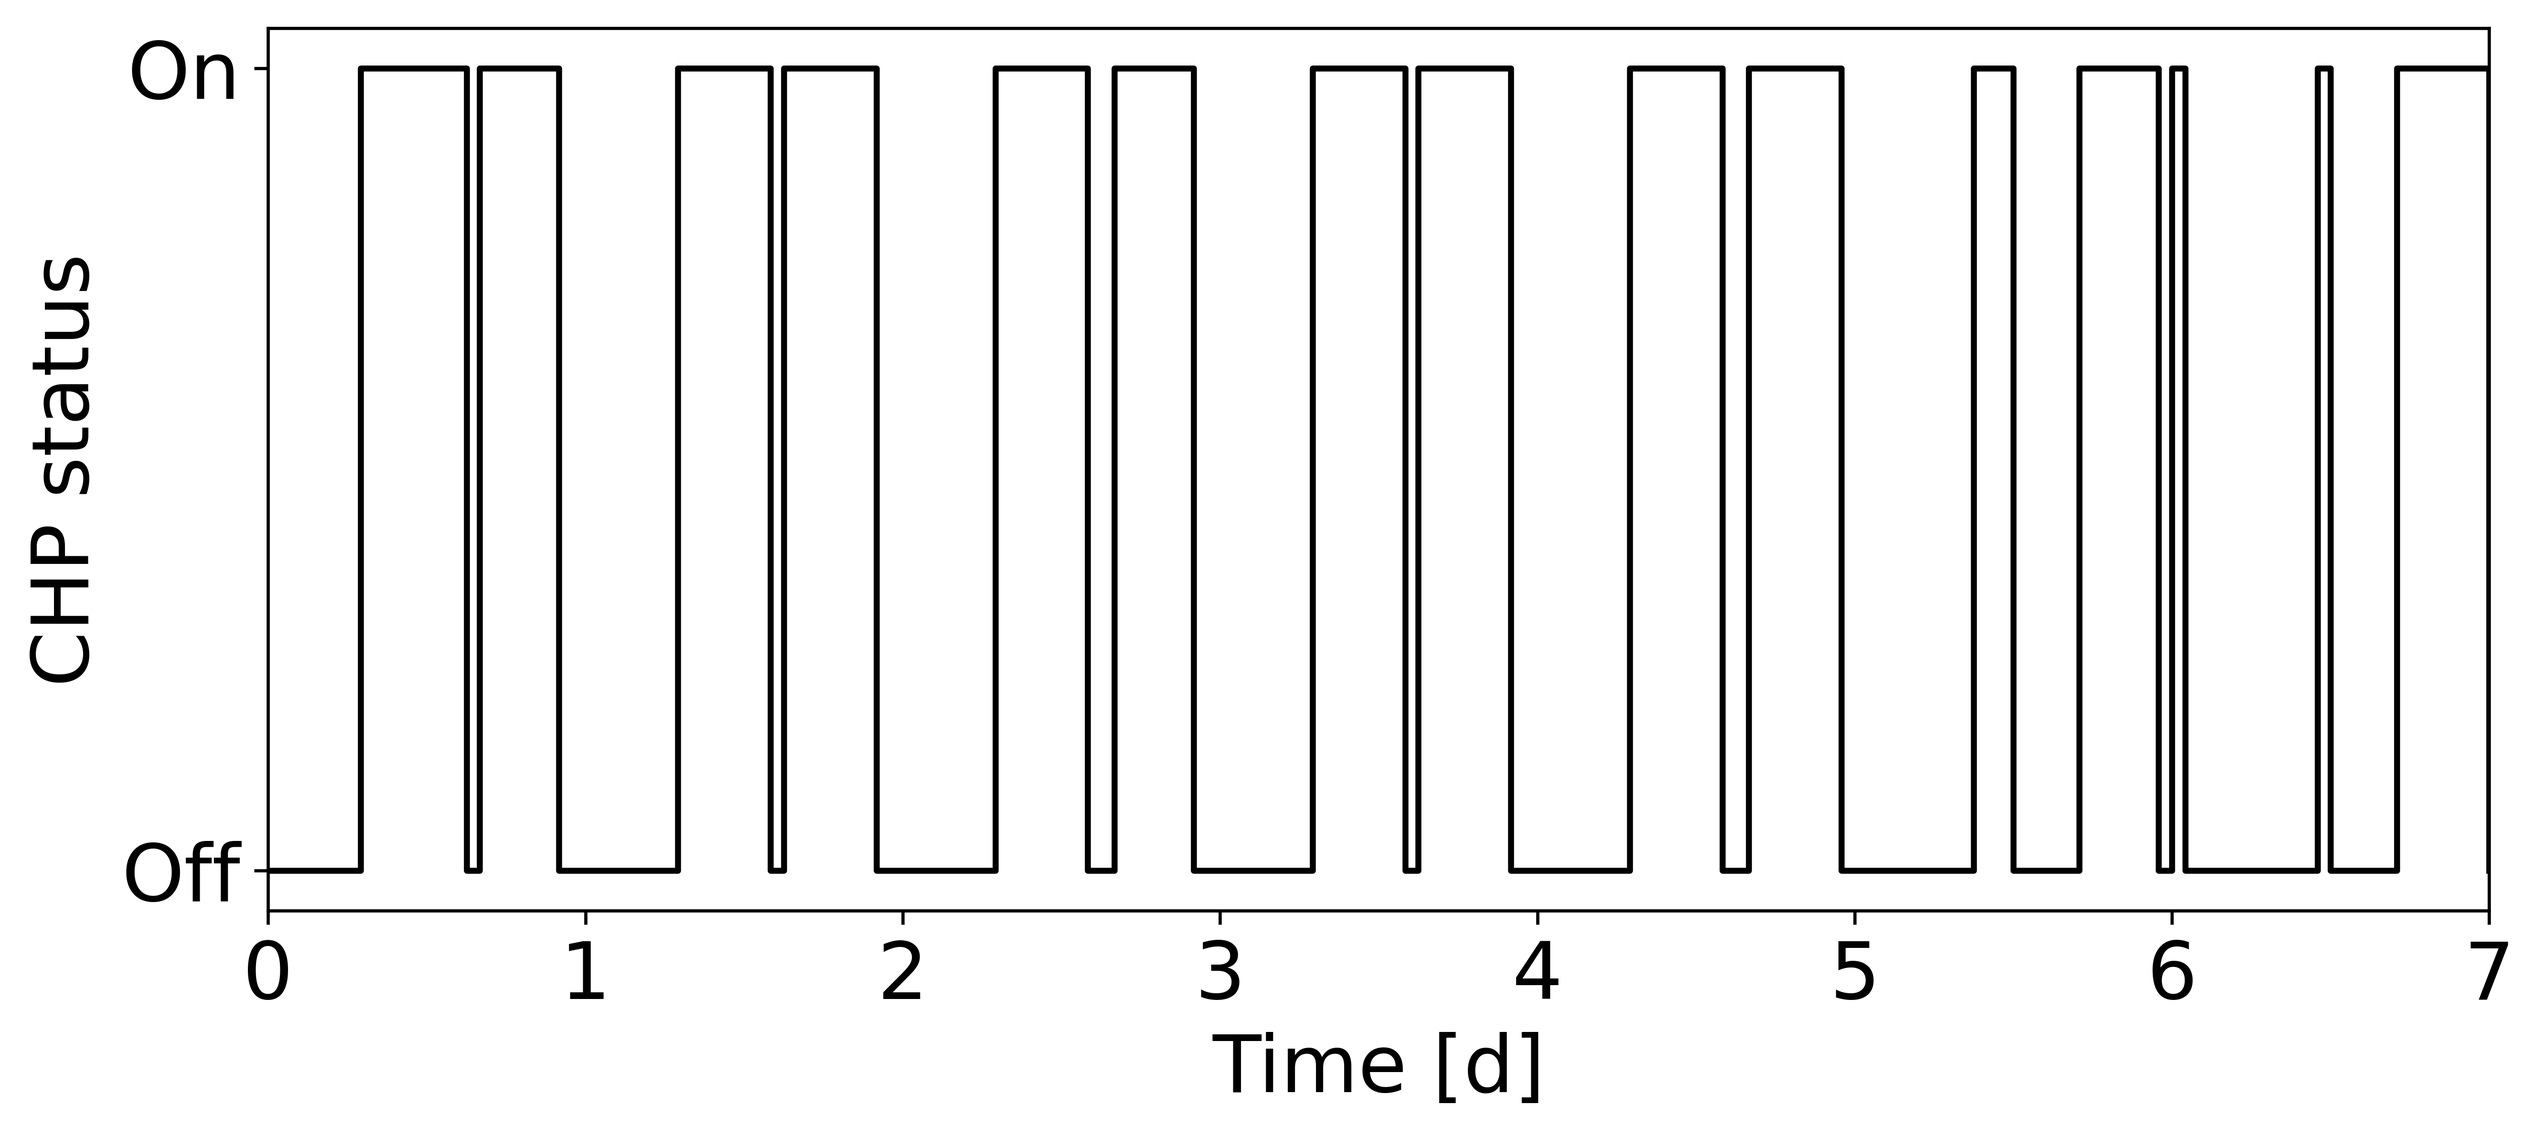
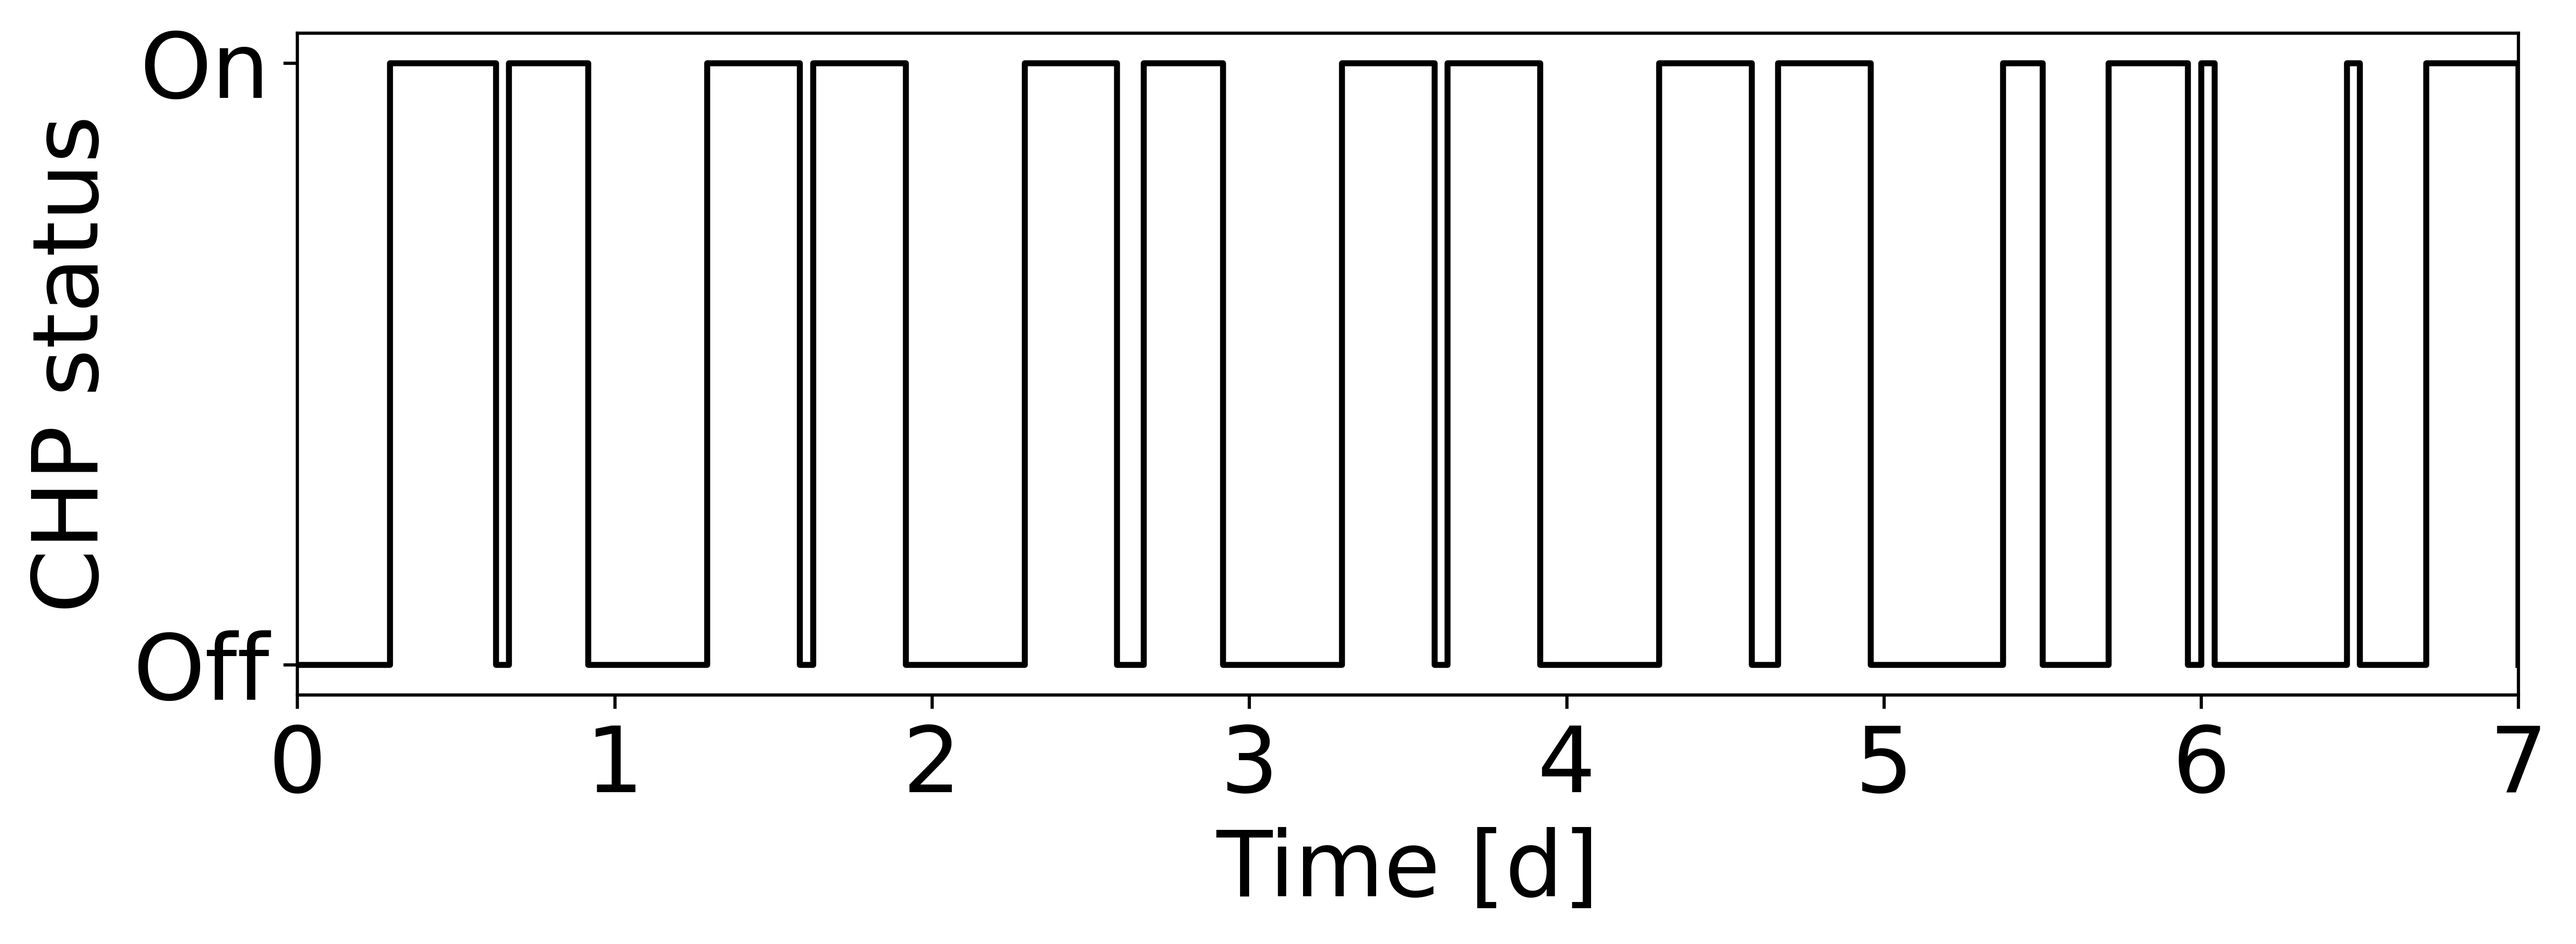
update chp schedule plot

diff --git a/ad_meal_prep_control/plot_generation/plot_chp_schedule.py b/ad_meal_prep_control/plot_generation/plot_chp_schedule.py
@@ -10,7 +10,7 @@ import numpy as np
 from dataclasses import dataclass
 
 # adjust default font sizes:
-my_fs = 20
+my_fs = 23
 plt.rcParams.update({
     'font.size': 10,           # Default font size
     'axes.labelsize': my_fs,      # Axis label font size
@@ -72,7 +72,7 @@ for day in days:
         states.append(0)  # Off state
 
 # Create the figure with specified size (width, height)
-plt.figure(figsize=(10, 4))
+plt.figure(figsize=(10, 3))
 
 # Create a stair graph showing ON and OFF states
 plt.step(timeline, states, where='post', label='State', color='black')
